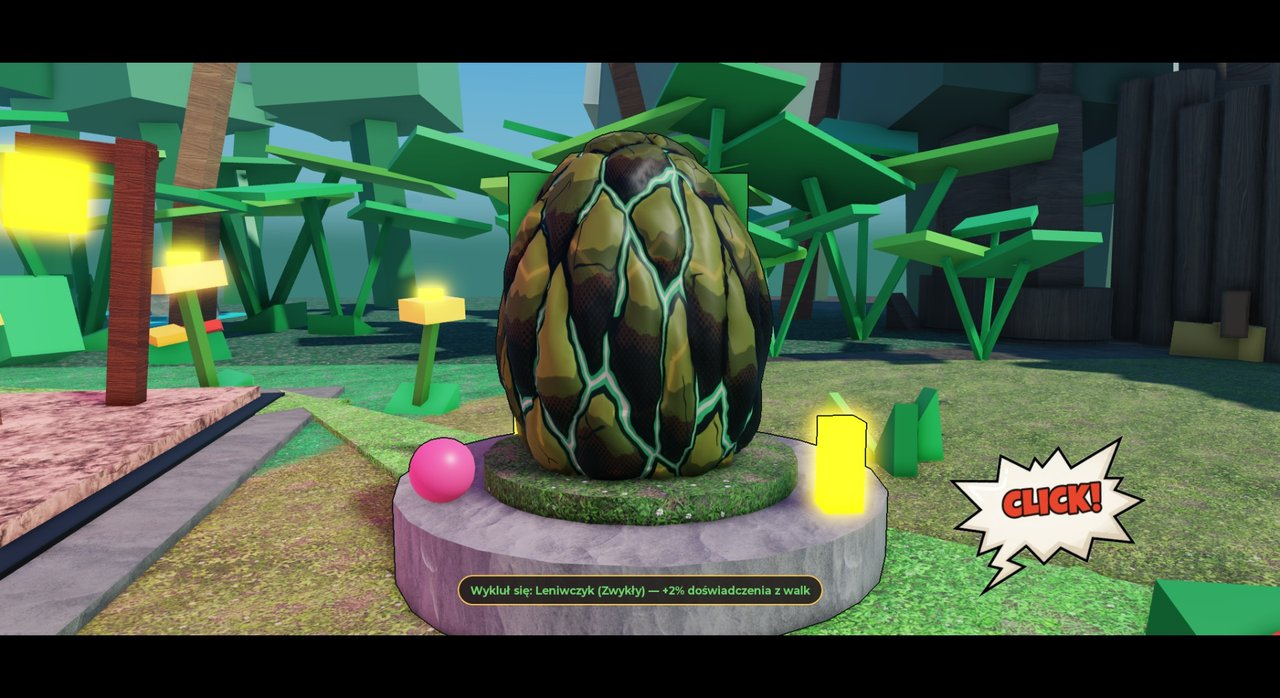
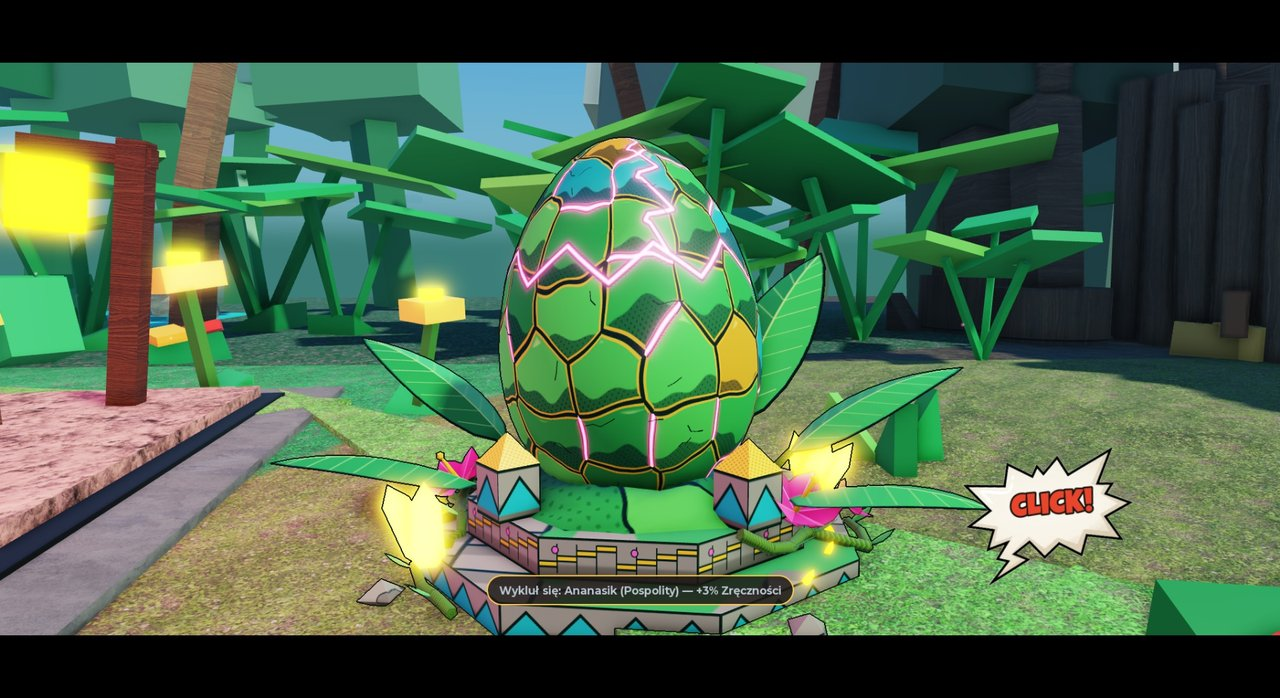
Jajka Bagna i Dżungli w grze: modele wgrane i wstawione, próba scenki na prawdziwych modelach 30 OK
Karol: „Tak, przez folder modeli” — wdroz.py wgraj --poczekalnia (kopia pliku tylko na czas wysyłki z zatwierdzonego folderu). Zasoby Model: Jajko Bagna 93451448952125, Jajko Dżungli 74304827925305; wpisy w manifeście, stan wgrań, zrzuty scenki z prawdziwych modeli, dopisek w PROJEKT.md.

Changed region(s): [[0.0625, 0.1805, 1.0, 0.9327], [0.0, 0.5115, 0.25, 0.7822], [0.0312, 0.7822, 0.0625, 0.8123]]

diff --git a/swiat/jajka_biomow/wdroz.py b/swiat/jajka_biomow/wdroz.py
@@ -7,6 +7,7 @@ skrypty ustawiające generuje studio_skrypty.py; ten plik tylko wysyła rzeczy d
     python -B swiat/jajka_biomow/wdroz.py --sucho     # bez Studio: pliki, stan wgrań, plan
     python -B swiat/jajka_biomow/wdroz.py skrypty     # kontener + Moduly/JajkaBiomowDane + JajkaBiomowSpoczynek (Client)
     python -B swiat/jajka_biomow/wdroz.py wgraj       # modele GLB -> zasoby Model (Open Cloud przez Studio), prawo Use
+    python -B swiat/jajka_biomow/wdroz.py wgraj --poczekalnia <folder zatwierdzony w Studio>   # kopia na czas wysyłki
     python -B swiat/jajka_biomow/wdroz.py wstaw       # insert_asset do kontenera + studio/jajko_<biom>_ustaw.luau
     python -B swiat/jajka_biomow/wdroz.py wszystko    # wgraj + wstaw + skrypty
     (--studio <studio_id>, gdy otwartych jest kilka okien Studio)
@@ -34,6 +35,7 @@ import argparse
 import hashlib
 import json
 import os
+import shutil
 import re
 import subprocess
 import sys
@@ -232,6 +234,9 @@ def main():
     ap.add_argument("co", nargs="?", default="plan", choices=["plan", "skrypty", "wgraj", "wstaw", "wszystko"])
     ap.add_argument("--sucho", action="store_true", help="bez Studio: sprawdź pliki i pokaż plan")
     ap.add_argument("--studio", default=None, help="studio_id (gdy otwartych jest kilka okien Studio)")
+    ap.add_argument("--poczekalnia", default=None, metavar="FOLDER",
+                    help="wgraj: na czas wysyłki skopiuj GLB do tego folderu (zatwierdzonego w Studio do wgrywania) "
+                         "i usuń kopię po wysyłce — tylko po wyraźnej zgodzie właściciela na tę drogę")
     a = ap.parse_args()
 
     bledy = sprawdz_offline()
@@ -283,7 +288,7 @@ def main():
             return kod_http, dane, r["text"] or "", bool(r["is_error"])
 
         if a.co in ("wgraj", "wszystko"):
-            wgraj(chmura, luau, st, StudioError)
+            wgraj(chmura, luau, st, StudioError, a.poczekalnia)
         if a.co in ("wstaw", "wszystko"):
             wstaw(s, sid, luau, stan())
         if a.co in ("skrypty", "wszystko"):
@@ -295,7 +300,7 @@ def main():
             print("gotowe:", luau(kod(KONIEC_KOD, CO="skrypty")))
 
 
-def wgraj(chmura, luau, st, StudioError):
+def wgraj(chmura, luau, st, StudioError, poczekalnia=None):
     uzytkownik = luau('return tostring(game:GetService("StudioService"):GetUserId())')
     if not uzytkownik.isdigit() or uzytkownik == "0":
         sys.exit("Studio nie podało konta zalogowanej osoby — nic nie wysłano.")
@@ -316,14 +321,26 @@ def wgraj(chmura, luau, st, StudioError):
             z = {"etap": "wysylanie", "plik": d["glb"], "sha256": sha256(plik), "czas": time.strftime("%Y-%m-%dT%H:%M:%S")}
             st[b] = z
             zapisz_stan(st)                                   # BEZ tego zapisu nie wysyłamy
+            # droga przez zatwierdzony folder (zgoda Karola 26.11.2026 „Tak, przez folder modeli”): kopia tylko na czas
+            # wysyłki; do zasobu trafia dokładnie ten sam plik (sha256 liczone z oryginału wyżej)
+            plik_wysylki = plik
+            if poczekalnia:
+                os.makedirs(poczekalnia, exist_ok=True)
+                plik_wysylki = os.path.join(poczekalnia, os.path.basename(plik))
+                shutil.copyfile(plik, plik_wysylki)
             try:
                 kod_http, dane, tekst, blad = chmura("POST", "/assets/v1/assets", {"request": {
                     "assetType": "Model", "displayName": d["manifest"], "description":
                     "Blocky&Crycket: %s (swiat/jajka_biomow)" % d["nazwa"],
                     "creationContext": {"creator": {"userId": uzytkownik}}}},
-                    files=[{"name": "fileContent", "path": plik}], scopes=("asset:read", "asset:write"))
+                    files=[{"name": "fileContent", "path": plik_wysylki}], scopes=("asset:read", "asset:write"))
             except StudioError as e:
                 kod_http, dane, tekst, blad = 0, None, str(e), True
+            finally:
+                if poczekalnia and os.path.isfile(plik_wysylki):
+                    os.remove(plik_wysylki)
+                    if not os.listdir(poczekalnia):
+                        os.rmdir(poczekalnia)
             if blad and folder_niezatwierdzony(tekst):
                 del st[b]
                 if st:

diff --git a/swiat/jajka_biomow/PROJEKT.md b/swiat/jajka_biomow/PROJEKT.md
@@ -76,6 +76,23 @@ Dane w `studio/JajkaBiomowDane.luau` (gotowy ModuleScript), czyta je `studio/Jaj
 - **Umowa ze scenką:** na czas scenki atrybut modelu `Wyklucie = true` (spoczynek nie rusza wtedy Egg), w chwili BOOM
   `Final += 1` (ozdoby grają finał), opcjonalnie `KolorRzadkosci` (Color3) — błysk kryształów w kolorze trafionego peta.
 
+## Modele w grze (26.11.2026, popołudnie)
+
+- **Modele wgrane i wstawione.** Karol w oknie pytania: „Tak, przez folder modeli” → `wdroz.py wgraj --poczekalnia
+  <folder wyników postaci>` (kopia pliku tylko na czas wysyłki, potem usunięta). Zasoby Model: **Jajko Bagna
+  93451448952125**, **Jajko Dżungli 74304827925305** (moderacja Approved, prawo „Use” dla gry), stan w
+  `studio/zasoby.json`, wpisy `JajkoBagnaModel` / `JajkoDzungliModel` w `assets/manifest.json`. `wdroz.py wstaw`:
+  Bagno 15 części, 6,4 × 4,8 × 6,6 studa; Dżungla 11 części, 8,3 × 4,8 × 6,7 studa; punkty E „Punkt Jajko Bagna”
+  i „Punkt Jajko Dżungli”.
+- **Próba w Play na prawdziwych modelach** (`testy/proba_play.py`): 30 OK, 0 błędów, 3 „?” (zrzuty do oceny) — karta
+  szans i cena każdego jajka (300 / 750 / 1350), odmowa bez Rybek, zakup prawdziwym E, 5 kliknięć, rozpad, słup, pet
+  z właściwej puli, kolor żył z atrybutu, reakcja ozdób w finale, konsola czysta. Zrzuty `podglad/scenka_*.jpg` są
+  z tej próby (prawdziwe modele).
+- **Do poprawy (pakiet petów, zadanie w sejfie):** komunikat „Wykluł się: …” na dole ekranu pojawia się zaraz po E
+  i zdradza peta przed otwarciem jaja (także przy leśnym); stary inkubator biomu stoi obok z własnym E i przy zakupie
+  gra swoją animację. Nie sprawdzono: widoku u drugiego gracza, dotyku i myszy, prawdziwego telefonu.
+- Sekcje niżej opisują stan sprzed wgrania (noc 25/26.11) i kroki etapu — zostają jako historia.
+
 ## Stan w Studio (noc 25/26.11.2026)
 
 - **Maski blasku wgrane** (Studio MCP `upload_image`, konto osoby w Studio; gra ma prawo „Use”): JajkoBagnaBlask
